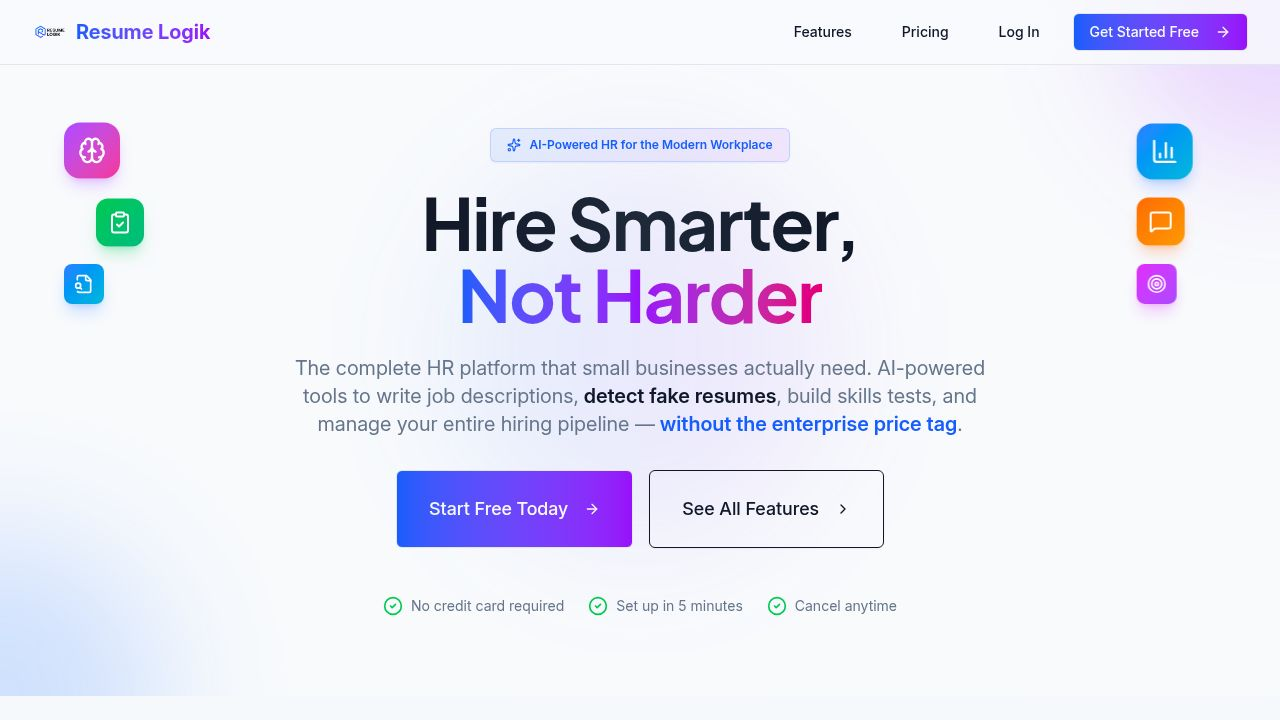
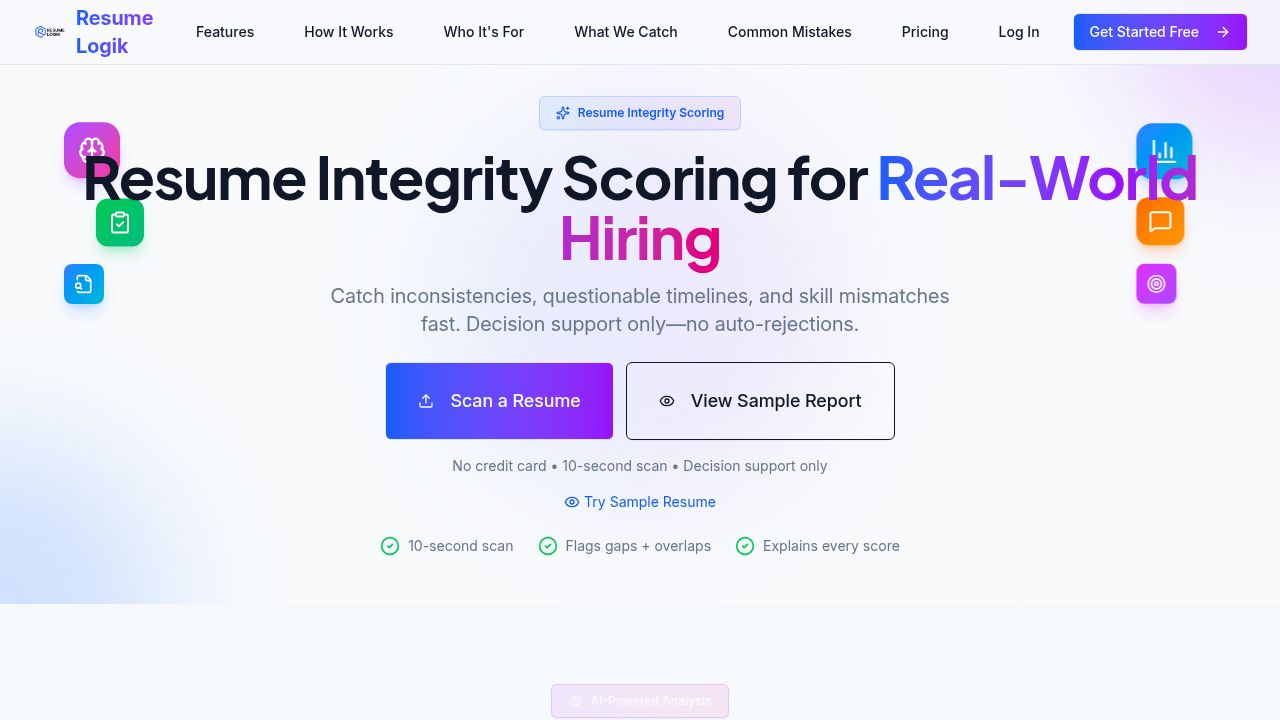
Update landing page with new sections and interactive elements
Reorganize landing page content, introduce a "What the Scan Catches" section with a sample report preview and flag details, and add a "Try Sample Resume" link to the hero section.

Replit-Commit-Author: Agent
Replit-Commit-Session-Id: 0531d299-be40-4ab9-a9c3-acd0e3d53cc9
Replit-Commit-Checkpoint-Type: intermediate_checkpoint
Replit-Commit-Event-Id: 730c333a-9913-4225-ab2a-816b425a517a
Replit-Commit-Screenshot-Url: https://storage.googleapis.com/screenshot-production-us-central1/fb338ca3-e241-4e6a-a402-bf5ed56abd9b/0531d299-be40-4ab9-a9c3-acd0e3d53cc9/qz86Zft
Replit-Helium-Checkpoint-Created: true

diff --git a/client/src/pages/landing-page.tsx b/client/src/pages/landing-page.tsx
@@ -498,9 +498,18 @@ export default function LandingPage() {
               </Button>
             </div>
 
-            <p className="text-sm text-muted-foreground mb-6">
+            <p className="text-sm text-muted-foreground mb-4">
               No credit card • 10-second scan • Decision support only
             </p>
+
+            <button
+              onClick={() => setSampleReportOpen(true)}
+              className="text-sm text-blue-600 dark:text-blue-400 hover:underline mb-6 inline-flex items-center gap-1"
+              data-testid="link-try-sample"
+            >
+              <Eye className="h-4 w-4" />
+              Try Sample Resume
+            </button>
 
             {/* Trust Indicators */}
             <div className="flex flex-wrap items-center justify-center gap-4 sm:gap-6 text-sm text-muted-foreground px-4">
@@ -521,7 +530,7 @@ export default function LandingPage() {
         </div>
       </section>
 
-      {/* Dashboard Preview Section - NEW */}
+      {/* What the Scan Catches Section */}
       <section className="py-16 sm:py-20 px-4 sm:px-6 lg:px-8 bg-gradient-to-b from-muted/30 to-background overflow-hidden">
         <div className="max-w-7xl mx-auto">
           <motion.div
@@ -530,113 +539,146 @@ export default function LandingPage() {
             viewport={{ once: true }}
             className="text-center mb-12"
           >
-            <Badge className="mb-4 px-4 py-2 bg-gradient-to-r from-blue-500/10 to-cyan-500/10 border-blue-500/20">
-              <Activity className="h-3.5 w-3.5 mr-2" />
-              Real-Time Analytics
+            <Badge className="mb-4 px-4 py-2 bg-gradient-to-r from-purple-500/10 to-pink-500/10 border-purple-500/20">
+              <Eye className="h-3.5 w-3.5 mr-2" />
+              AI-Powered Analysis
             </Badge>
             <h2 className="text-3xl sm:text-4xl font-bold mb-4">
-              Your HR Dashboard,{" "}
-              <span className="bg-gradient-to-r from-blue-600 to-cyan-600 bg-clip-text text-transparent">
-                At a Glance
+              What the Scan{" "}
+              <span className="bg-gradient-to-r from-purple-600 to-pink-600 bg-clip-text text-transparent">
+                Catches
               </span>
             </h2>
             <p className="text-lg text-muted-foreground max-w-2xl mx-auto">
-              Track KPIs, pipeline stages, hiring trends, and team performance with real-time data — not placeholder metrics.
+              See exactly what our AI flags in seconds — from timeline issues to copy-paste artifacts.
             </p>
           </motion.div>
 
-          {/* Dashboard Mock */}
-          <motion.div
-            initial={{ opacity: 0, y: 40 }}
-            whileInView={{ opacity: 1, y: 0 }}
-            viewport={{ once: true }}
-            transition={{ duration: 0.6 }}
-            className="relative"
-          >
-            <div className="rounded-2xl border bg-background shadow-2xl overflow-hidden">
-              {/* Mock Header */}
-              <div className="border-b px-4 sm:px-6 py-4 flex items-center justify-between bg-muted/30">
-                <div className="flex items-center gap-3">
-                  <img src={logoImage} alt="Resume Logik" className="h-8 w-8 object-contain" />
-                  <span className="font-semibold hidden sm:inline">Resume Logik</span>
-                </div>
+          <div className="grid lg:grid-cols-2 gap-8">
+            {/* Left: Sample Report Preview Card */}
+            <motion.div
+              initial={{ opacity: 0, x: -20 }}
+              whileInView={{ opacity: 1, x: 0 }}
+              viewport={{ once: true }}
+              transition={{ duration: 0.5 }}
+              className="rounded-2xl border bg-background shadow-xl overflow-hidden"
+            >
+              <div className="border-b px-5 py-4 bg-muted/30 flex items-center justify-between">
                 <div className="flex items-center gap-2">
-                  <div className="h-2 w-2 rounded-full bg-green-500" />
-                  <span className="text-sm text-muted-foreground">Live Data</span>
+                  <FileText className="h-5 w-5 text-purple-600" />
+                  <span className="font-semibold">Sample Integrity Report</span>
                 </div>
+                <Badge variant="secondary" className="text-xs">Demo</Badge>
               </div>
               
-              {/* Mock Dashboard Content */}
-              <div className="p-4 sm:p-6">
-                {/* KPI Cards */}
-                <div className="grid grid-cols-2 lg:grid-cols-4 gap-3 sm:gap-4 mb-6">
-                  {[
-                    { label: "Active Jobs", value: "12", change: "+3 this week", color: "text-blue-600" },
-                    { label: "Total Candidates", value: "248", change: "+45 this month", color: "text-purple-600" },
-                    { label: "Interviews Scheduled", value: "18", change: "6 today", color: "text-green-600" },
-                    { label: "Offers Extended", value: "5", change: "80% acceptance", color: "text-orange-600" },
-                  ].map((kpi, i) => (
-                    <div key={i} className="p-3 sm:p-4 rounded-xl bg-muted/50 border">
-                      <p className="text-xs sm:text-sm text-muted-foreground">{kpi.label}</p>
-                      <p className={cn("text-xl sm:text-2xl font-bold", kpi.color)}>{kpi.value}</p>
-                      <p className="text-xs text-muted-foreground">{kpi.change}</p>
-                    </div>
-                  ))}
+              <div className="p-5 space-y-5">
+                {/* Score Cards */}
+                <div className="grid grid-cols-3 gap-3">
+                  <div className="p-3 rounded-xl bg-gradient-to-br from-blue-500/10 to-blue-600/10 border border-blue-500/20 text-center">
+                    <p className="text-xs text-muted-foreground mb-1">Integrity Score</p>
+                    <p className="text-2xl font-bold text-blue-600">72</p>
+                    <p className="text-xs text-muted-foreground">/100</p>
+                  </div>
+                  <div className="p-3 rounded-xl bg-gradient-to-br from-purple-500/10 to-purple-600/10 border border-purple-500/20 text-center">
+                    <p className="text-xs text-muted-foreground mb-1">AI Likelihood</p>
+                    <p className="text-2xl font-bold text-purple-600">45%</p>
+                    <p className="text-xs text-muted-foreground">Moderate</p>
+                  </div>
+                  <div className="p-3 rounded-xl bg-gradient-to-br from-green-500/10 to-green-600/10 border border-green-500/20 text-center">
+                    <p className="text-xs text-muted-foreground mb-1">Skills Match</p>
+                    <p className="text-2xl font-bold text-green-600">68%</p>
+                    <p className="text-xs text-muted-foreground">Good</p>
+                  </div>
                 </div>
 
-                {/* Pipeline Visualization */}
-                <div className="grid lg:grid-cols-2 gap-4 sm:gap-6">
-                  <div className="p-4 rounded-xl bg-muted/30 border">
-                    <h4 className="font-semibold mb-4 flex items-center gap-2">
-                      <PieChart className="h-4 w-4 text-purple-500" />
-                      Pipeline Stages
-                    </h4>
-                    <div className="space-y-3">
-                      {[
-                        { stage: "Applied", count: 86, color: "bg-blue-500", width: "100%" },
-                        { stage: "Screening", count: 45, color: "bg-purple-500", width: "52%" },
-                        { stage: "Interview", count: 28, color: "bg-orange-500", width: "32%" },
-                        { stage: "Offer", count: 12, color: "bg-green-500", width: "14%" },
-                        { stage: "Hired", count: 5, color: "bg-emerald-500", width: "6%" },
-                      ].map((stage, i) => (
-                        <div key={i} className="flex items-center gap-3">
-                          <span className="text-xs sm:text-sm w-20 text-muted-foreground">{stage.stage}</span>
-                          <div className="flex-1 h-2 rounded-full bg-muted overflow-hidden">
-                            <div className={cn("h-full rounded-full", stage.color)} style={{ width: stage.width }} />
-                          </div>
-                          <span className="text-xs sm:text-sm font-medium w-8">{stage.count}</span>
-                        </div>
-                      ))}
+                {/* Flags Summary */}
+                <div className="space-y-2">
+                  <h4 className="font-medium text-sm flex items-center gap-2">
+                    <AlertTriangle className="h-4 w-4 text-yellow-500" />
+                    Flags Found (5)
+                  </h4>
+                  <div className="space-y-2">
+                    <div className="flex items-center gap-2 p-2 rounded-lg bg-red-50 dark:bg-red-950/20 border-l-2 border-l-red-500">
+                      <div className="h-5 w-5 rounded-full bg-red-500 flex items-center justify-center flex-shrink-0">
+                        <AlertTriangle className="h-3 w-3 text-white" />
+                      </div>
+                      <span className="text-xs">Timeline overlap: 2 roles, 18 months</span>
                     </div>
-                  </div>
-
-                  <div className="p-4 rounded-xl bg-muted/30 border">
-                    <h4 className="font-semibold mb-4 flex items-center gap-2">
-                      <Gauge className="h-4 w-4 text-blue-500" />
-                      Hiring Efficiency
-                    </h4>
-                    <div className="grid grid-cols-2 gap-4">
-                      {[
-                        { label: "Avg. Time to Hire", value: "18 days", trend: "↓ 3 days" },
-                        { label: "Interview Rate", value: "32%", trend: "↑ 5%" },
-                        { label: "Offer Acceptance", value: "80%", trend: "↑ 10%" },
-                        { label: "Quality Score", value: "4.2/5", trend: "Stable" },
-                      ].map((metric, i) => (
-                        <div key={i} className="text-center p-3 rounded-lg bg-background/50">
-                          <p className="text-xs text-muted-foreground mb-1">{metric.label}</p>
-                          <p className="text-base sm:text-lg font-bold">{metric.value}</p>
-                          <p className="text-xs text-green-600">{metric.trend}</p>
-                        </div>
-                      ))}
+                    <div className="flex items-center gap-2 p-2 rounded-lg bg-red-50 dark:bg-red-950/20 border-l-2 border-l-red-500">
+                      <div className="h-5 w-5 rounded-full bg-red-500 flex items-center justify-center flex-shrink-0">
+                        <AlertTriangle className="h-3 w-3 text-white" />
+                      </div>
+                      <span className="text-xs">Copy-paste error: wrong company name</span>
+                    </div>
+                    <div className="flex items-center gap-2 p-2 rounded-lg bg-yellow-50 dark:bg-yellow-950/20 border-l-2 border-l-yellow-500">
+                      <div className="h-5 w-5 rounded-full bg-yellow-500 flex items-center justify-center flex-shrink-0">
+                        <Eye className="h-3 w-3 text-white" />
+                      </div>
+                      <span className="text-xs">Inflated title: VP at 4-person startup</span>
+                    </div>
+                    <div className="flex items-center gap-2 p-2 rounded-lg bg-yellow-50 dark:bg-yellow-950/20 border-l-2 border-l-yellow-500">
+                      <div className="h-5 w-5 rounded-full bg-yellow-500 flex items-center justify-center flex-shrink-0">
+                        <Eye className="h-3 w-3 text-white" />
+                      </div>
+                      <span className="text-xs">AI-generated summary detected</span>
+                    </div>
+                    <div className="flex items-center gap-2 p-2 rounded-lg bg-green-50 dark:bg-green-950/20 border-l-2 border-l-green-500">
+                      <div className="h-5 w-5 rounded-full bg-green-500 flex items-center justify-center flex-shrink-0">
+                        <CheckCircle2 className="h-3 w-3 text-white" />
+                      </div>
+                      <span className="text-xs">Education timeline verified</span>
                     </div>
                   </div>
                 </div>
+
+                <Button 
+                  onClick={() => setSampleReportOpen(true)} 
+                  className="w-full bg-gradient-to-r from-purple-600 to-pink-600 hover:from-purple-700 hover:to-pink-700"
+                >
+                  View Full Sample Report
+                  <ArrowRight className="ml-2 h-4 w-4" />
+                </Button>
               </div>
-            </div>
+            </motion.div>
 
-            {/* Decorative blur behind dashboard */}
-            <div className="absolute -z-10 inset-0 bg-gradient-to-br from-blue-500/10 via-purple-500/10 to-pink-500/10 blur-3xl scale-110" />
-          </motion.div>
+            {/* Right: 8 Flag Tiles */}
+            <motion.div
+              initial={{ opacity: 0, x: 20 }}
+              whileInView={{ opacity: 1, x: 0 }}
+              viewport={{ once: true }}
+              transition={{ duration: 0.5 }}
+              className="grid grid-cols-2 gap-3"
+            >
+              {[
+                { icon: Users, title: "Name Mismatch", description: "Different names across resume sections or documents.", color: "from-red-500 to-rose-500" },
+                { icon: Calendar, title: "Timeline Overlap", description: "Multiple full-time roles during the same period.", color: "from-red-500 to-orange-500" },
+                { icon: FileText, title: "Copy-Paste Artifact", description: "Wrong company names, leftover template text.", color: "from-yellow-500 to-amber-500" },
+                { icon: Award, title: "Inflated Title Risk", description: "VP/Director titles at very small companies.", color: "from-yellow-500 to-orange-500" },
+                { icon: Target, title: "Skills Mismatch", description: "Claimed expertise without supporting experience.", color: "from-purple-500 to-pink-500" },
+                { icon: Shield, title: "Contact Inconsistency", description: "Email domain doesn't match stated employer.", color: "from-blue-500 to-cyan-500" },
+                { icon: BookOpen, title: "Education Anomaly", description: "Degree dates don't align with career start.", color: "from-indigo-500 to-purple-500" },
+                { icon: Sparkles, title: "Generic AI Phrasing", description: "Buzzword-heavy, substance-light language.", color: "from-pink-500 to-rose-500" },
+              ].map((flag, index) => (
+                <motion.div
+                  key={index}
+                  initial={{ opacity: 0, y: 10 }}
+                  whileInView={{ opacity: 1, y: 0 }}
+                  viewport={{ once: true }}
+                  transition={{ delay: index * 0.05 }}
+                  className="p-4 rounded-xl bg-background border shadow-sm hover:shadow-md transition-shadow"
+                >
+                  <div className={cn(
+                    "h-9 w-9 rounded-lg bg-gradient-to-br flex items-center justify-center mb-3",
+                    flag.color
+                  )}>
+                    <flag.icon className="h-4 w-4 text-white" />
+                  </div>
+                  <h4 className="font-semibold text-sm mb-1">{flag.title}</h4>
+                  <p className="text-xs text-muted-foreground">{flag.description}</p>
+                </motion.div>
+              ))}
+            </motion.div>
+          </div>
         </div>
       </section>
 
@@ -1134,6 +1176,119 @@ export default function LandingPage() {
                 )}
               </motion.div>
             ))}
+          </motion.div>
+        </div>
+      </section>
+
+      {/* Dashboard Preview Section */}
+      <section className="py-16 sm:py-20 px-4 sm:px-6 lg:px-8 bg-gradient-to-b from-muted/30 to-background overflow-hidden">
+        <div className="max-w-7xl mx-auto">
+          <motion.div
+            initial={{ opacity: 0 }}
+            whileInView={{ opacity: 1 }}
+            viewport={{ once: true }}
+            className="text-center mb-12"
+          >
+            <Badge className="mb-4 px-4 py-2 bg-gradient-to-r from-blue-500/10 to-cyan-500/10 border-blue-500/20">
+              <Activity className="h-3.5 w-3.5 mr-2" />
+              Real-Time Analytics
+            </Badge>
+            <h2 className="text-3xl sm:text-4xl font-bold mb-4">
+              Your HR Dashboard,{" "}
+              <span className="bg-gradient-to-r from-blue-600 to-cyan-600 bg-clip-text text-transparent">
+                At a Glance
+              </span>
+            </h2>
+            <p className="text-lg text-muted-foreground max-w-2xl mx-auto">
+              Track KPIs, pipeline stages, hiring trends, and team performance with real-time data — not placeholder metrics.
+            </p>
+          </motion.div>
+
+          <motion.div
+            initial={{ opacity: 0, y: 40 }}
+            whileInView={{ opacity: 1, y: 0 }}
+            viewport={{ once: true }}
+            transition={{ duration: 0.6 }}
+            className="relative"
+          >
+            <div className="rounded-2xl border bg-background shadow-2xl overflow-hidden">
+              <div className="border-b px-4 sm:px-6 py-4 flex items-center justify-between bg-muted/30">
+                <div className="flex items-center gap-3">
+                  <img src={logoImage} alt="Resume Logik" className="h-8 w-8 object-contain" />
+                  <span className="font-semibold hidden sm:inline">Resume Logik</span>
+                </div>
+                <div className="flex items-center gap-2">
+                  <div className="h-2 w-2 rounded-full bg-green-500" />
+                  <span className="text-sm text-muted-foreground">Live Data</span>
+                </div>
+              </div>
+              
+              <div className="p-4 sm:p-6">
+                <div className="grid grid-cols-2 lg:grid-cols-4 gap-3 sm:gap-4 mb-6">
+                  {[
+                    { label: "Active Jobs", value: "12", change: "+3 this week", color: "text-blue-600" },
+                    { label: "Total Candidates", value: "248", change: "+45 this month", color: "text-purple-600" },
+                    { label: "Interviews Scheduled", value: "18", change: "6 today", color: "text-green-600" },
+                    { label: "Offers Extended", value: "5", change: "80% acceptance", color: "text-orange-600" },
+                  ].map((kpi, i) => (
+                    <div key={i} className="p-3 sm:p-4 rounded-xl bg-muted/50 border">
+                      <p className="text-xs sm:text-sm text-muted-foreground">{kpi.label}</p>
+                      <p className={cn("text-xl sm:text-2xl font-bold", kpi.color)}>{kpi.value}</p>
+                      <p className="text-xs text-muted-foreground">{kpi.change}</p>
+                    </div>
+                  ))}
+                </div>
+
+                <div className="grid lg:grid-cols-2 gap-4 sm:gap-6">
+                  <div className="p-4 rounded-xl bg-muted/30 border">
+                    <h4 className="font-semibold mb-4 flex items-center gap-2">
+                      <PieChart className="h-4 w-4 text-purple-500" />
+                      Pipeline Stages
+                    </h4>
+                    <div className="space-y-3">
+                      {[
+                        { stage: "Applied", count: 86, color: "bg-blue-500", width: "100%" },
+                        { stage: "Screening", count: 45, color: "bg-purple-500", width: "52%" },
+                        { stage: "Interview", count: 28, color: "bg-orange-500", width: "32%" },
+                        { stage: "Offer", count: 12, color: "bg-green-500", width: "14%" },
+                        { stage: "Hired", count: 5, color: "bg-emerald-500", width: "6%" },
+                      ].map((stage, i) => (
+                        <div key={i} className="flex items-center gap-3">
+                          <span className="text-xs sm:text-sm w-20 text-muted-foreground">{stage.stage}</span>
+                          <div className="flex-1 h-2 rounded-full bg-muted overflow-hidden">
+                            <div className={cn("h-full rounded-full", stage.color)} style={{ width: stage.width }} />
+                          </div>
+                          <span className="text-xs sm:text-sm font-medium w-8">{stage.count}</span>
+                        </div>
+                      ))}
+                    </div>
+                  </div>
+
+                  <div className="p-4 rounded-xl bg-muted/30 border">
+                    <h4 className="font-semibold mb-4 flex items-center gap-2">
+                      <Gauge className="h-4 w-4 text-blue-500" />
+                      Hiring Efficiency
+                    </h4>
+                    <div className="grid grid-cols-2 gap-4">
+                      {[
+                        { label: "Avg. Time to Hire", value: "18 days", trend: "↓ 3 days" },
+                        { label: "Interview Rate", value: "32%", trend: "↑ 5%" },
+                        { label: "Offer Acceptance", value: "80%", trend: "↑ 10%" },
+                        { label: "Quality Score", value: "4.2/5", trend: "Stable" },
+                      ].map((metric, i) => (
+                        <div key={i} className="text-center p-3 rounded-lg bg-background/50">
+                          <p className="text-xs text-muted-foreground mb-1">{metric.label}</p>
+                          <p className="text-base sm:text-lg font-bold">{metric.value}</p>
+                          <p className="text-xs text-green-600">{metric.trend}</p>
+                        </div>
+                      ))}
+                    </div>
+                  </div>
+                </div>
+              </div>
+            </div>
+
+            <div className="absolute -z-10 inset-0 bg-gradient-to-br from-blue-500/10 via-purple-500/10 to-pink-500/10 blur-3xl scale-110" />
           </motion.div>
         </div>
       </section>
